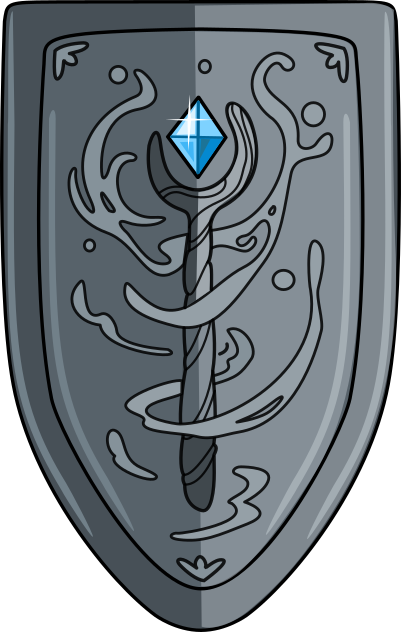
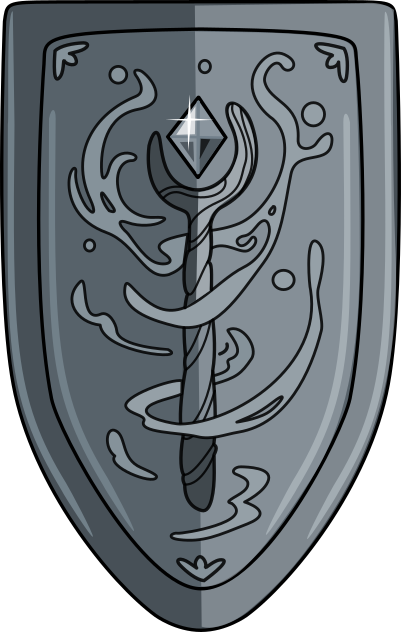
add sprite

Changed region(s): [[0.419, 0.1503, 0.5686, 0.2706]]

diff --git a/araragame/src/game/scenes/KnightScene.js b/araragame/src/game/scenes/KnightScene.js
@@ -4,18 +4,20 @@ import GameController from '@/recorder/GameController.js'
 
 import background from '@/game/assets/bg_warrior.png'
 import head from '@/game/assets/head.png'
+import headSprite from '@/game/assets/head_sprite.png'
 import body from '@/game/assets/body.png'
 import legs from '@/game/assets/legs.png'
 import armor from '@/game/assets/armor.png'
 import shield from '@/game/assets/shield.png'
+import shieldSprite from '@/game/assets/shield_sprite.png'
 import stick from '@/game/assets/stick.png'
 
 const POSITIONS = {
     HEAD_ORIGIN: {x: 200, y: 200},
-    BODY_ORIGIN: {x: 200, y: 200},
-    LEGS_ORIGIN: {x: 200, y: 200},
-    ARMOR_ORIGIN: {x: 200, y: 200},
-    SHIELD_ORIGIN: {x: 200, y: 200},
+    BODY_ORIGIN: {x: 200, y: 100},
+    LEGS_ORIGIN: {x: 350, y: 150},
+    ARMOR_ORIGIN: {x: 400, y: 300},
+    SHIELD_ORIGIN: {x: 205, y: 320},
 
     HEAD_OFFSET: {x: 669, y: 62},
     BODY_OFFSET: {x: 605, y: 325},
@@ -25,12 +27,11 @@ const POSITIONS = {
 }
 
 let keySpace;
+let headSpriteAnim;
+let shieldSpriteAnim;
 let tween;
 let headParticles;
 let headParticlesEmitter;
-
-
-
 
 class TweenController {
     scene = null;
@@ -57,25 +58,57 @@ class Transition {
     target = null;
     element = null;
 
-    constructor(scene, origin, offset, resource) {
+    constructor(scene, origin, offset, resource, depth) {
         this.scene = scene;
         this.origin = origin;
         this.offset = offset;
-        this.element = this.scene.add.image(this.origin.x, this.origin.y, resource).setOrigin(0).setScale(0.57);
-        this.setTweenController();
+        this.element = this.scene.add.image(this.origin.x, this.origin.y, resource).setOrigin(0).setScale(0.57).setDepth(depth).setRotation(depth*5);
+        this.setTweenController(resource);
     }
 
-    setTweenController() {
+    setTweenController(resource) {
         let tween = this.scene.tweens.add({
             targets: this.element,
             props: {
-                x: { value: this.offset.x, duration: 1000, ease: 'Sine.linear' },
-                y: { value: this.offset.y, duration: 1000, ease: 'Sine.linear' },
+                x: { value: this.offset.x, duration: 1400, ease: 'Power4' },
+                y: { value: this.offset.y, duration: 800, ease: 'Power4' },
             },
             yoyo: false,
             repeat: 0,
             delay: 0,
+            onUpdate: () => {
+                switch (resource) {
+                    case 'legs':
+                        this.element.setDepth(1).setRotation(0)
+                        break
+                    case 'head':
+                        this.element.setDepth(2).setRotation(0)
+                        break
+                    case 'body':
+                        this.element.setDepth(3).setRotation(0)
+                        break
+                    case 'armor':
+                        this.element.setDepth(4).setRotation(0)
+                        break
+                    case 'shield':
+                        this.element.setDepth(5).setRotation(0)
+                        break
+                }
+            },
             onComplete:  () => {
+                if (resource === 'head') {
+                    this.element.destroy(true)
+                    headSpriteAnim = this.scene.physics.add.sprite(POSITIONS.HEAD_OFFSET.x, POSITIONS.HEAD_OFFSET.y, 'headSprite')
+                        .setOrigin(0,0)
+                        .setScale(0.57)
+                        .setDepth(2)
+                } else if (resource === 'shield') {
+                    this.element.destroy(true)
+                    shieldSpriteAnim = this.scene.physics.add.sprite(POSITIONS.SHIELD_OFFSET.x, POSITIONS.SHIELD_OFFSET.y, 'shieldSprite')
+                        .setOrigin(0,0)
+                        .setScale(0.57)
+                        .setDepth(5)
+                }
                 this.scene.nextTransition();
             }
         })
@@ -85,6 +118,7 @@ class Transition {
         this.controller = new TweenController(this, tween);
     }
 }
+
 export default class KnightScene extends Scene {
     transitions = [];
     transition = null;
@@ -100,6 +134,9 @@ export default class KnightScene extends Scene {
         this.load.image('legs', legs, { width: 200, height: 200 })
         this.load.image('armor', armor, { width: 200, height: 200 })
         this.load.image('shield', shield, { width: 200, height: 200 })
+
+        this.load.spritesheet('headSprite', headSprite, { frameWidth: 463, frameHeight: 476 });
+        this.load.spritesheet('shieldSprite', shieldSprite, { frameWidth: 439, frameHeight: 632 });
     }
 
     create() {
@@ -137,11 +174,11 @@ export default class KnightScene extends Scene {
     }
 
     _setTransitions() {
-        this.transitions.push(new Transition(this, POSITIONS.HEAD_ORIGIN, POSITIONS.HEAD_OFFSET, 'head'));
-        this.transitions.push(new Transition(this, POSITIONS.BODY_ORIGIN, POSITIONS.BODY_OFFSET, 'body'));
-        this.transitions.push(new Transition(this, POSITIONS.LEGS_ORIGIN, POSITIONS.LEGS_OFFSET, 'legs'));
-        this.transitions.push(new Transition(this, POSITIONS.ARMOR_ORIGIN, POSITIONS.ARMOR_OFFSET, 'armor'));
-        this.transitions.push(new Transition(this, POSITIONS.SHIELD_ORIGIN, POSITIONS.SHIELD_OFFSET, 'shield'));
+        this.transitions.push(new Transition(this, POSITIONS.HEAD_ORIGIN, POSITIONS.HEAD_OFFSET, 'head', 5));
+        this.transitions.push(new Transition(this, POSITIONS.BODY_ORIGIN, POSITIONS.BODY_OFFSET, 'body', 4));
+        this.transitions.push(new Transition(this, POSITIONS.LEGS_ORIGIN, POSITIONS.LEGS_OFFSET, 'legs', 3));
+        this.transitions.push(new Transition(this, POSITIONS.ARMOR_ORIGIN, POSITIONS.ARMOR_OFFSET, 'armor', 2));
+        this.transitions.push(new Transition(this, POSITIONS.SHIELD_ORIGIN, POSITIONS.SHIELD_OFFSET, 'shield', 1));
     }
 
     nextTransition() {
@@ -150,6 +187,30 @@ export default class KnightScene extends Scene {
             this.transition = this.transitions.shift();
         }
         else {
+            let configHead = {
+                key: 'headAlive',
+                frames: this.anims.generateFrameNumbers('headSprite', { frames: [0, 1, 2] }),
+                frameRate: 6,
+                yoyo: false,
+                repeat: 0,
+                delay: 0,
+            }
+
+            let configShield = {
+                key: 'shieldAlive',
+                frames: this.anims.generateFrameNumbers('shieldSprite', { frames: [0, 1] }),
+                frameRate: 6,
+                yoyo: false,
+                repeat: 0,
+                delay: 0,
+            }
+
+            this.anims.create(configHead)
+            this.anims.create(configShield)
+
+            headSpriteAnim.anims.play('headAlive')
+            shieldSpriteAnim.anims.play('shieldAlive')
+
             console.log('game complete');
         }
     }
